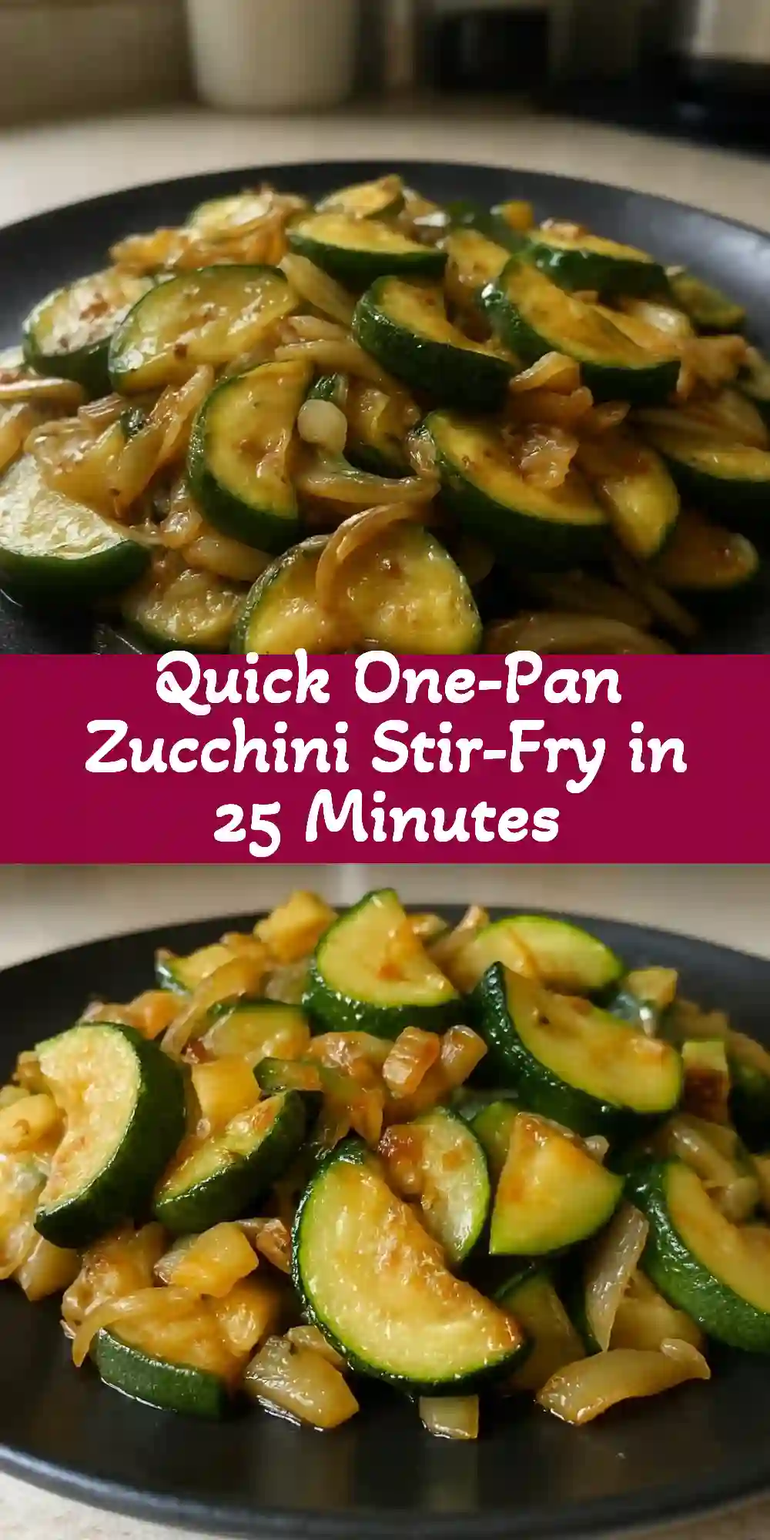
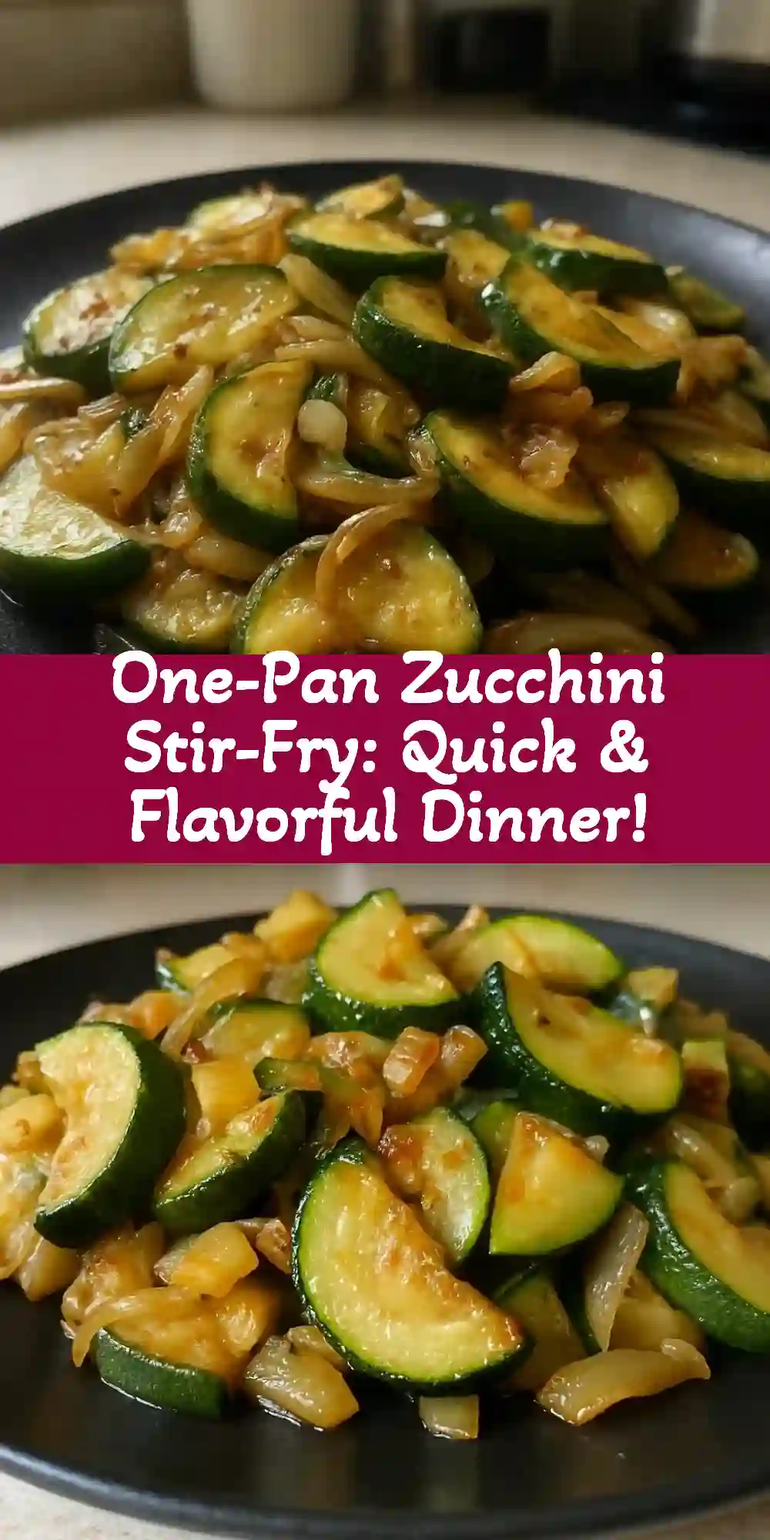
Update from web: 2026-03-01 22:41:49

Changed region(s): [[0.093, 0.403, 0.899, 0.558]]

diff --git a/recipes/zucchini-stir-fry/index.html b/recipes/zucchini-stir-fry/index.html
@@ -14,9 +14,9 @@
     <meta name="viewport" content="width=device-width, initial-scale=1.0">
 
     <!-- SEO Meta Tags -->
-    <title>Quick One-Pan Zucchini Stir-Fry in 25 Minutes - Molly Kitchen Daily</title>
-    <meta name="description" content="Need a meal that comes together in a flash? This one-pan zucchini stir-fry is packed with vibrant veggies and flavors. Ready in just 25 minutes, it’s a go-to for busy nights. Save this recipe for later!">
-    <meta name="keywords" content="Quick One-Pan Zucchini Stir-Fry in 25 Minutes, Recipes, recipe, cooking">
+    <title>One-Pan Zucchini Stir-Fry: Quick &amp; Flavorful Dinner! - Molly Kitchen Daily</title>
+    <meta name="description" content="Need a quick dinner? This One-Pan Zucchini Stir-Fry is ready in 25 minutes! Filled with fresh veggies, it’s a great way to use up what you have. Perfect for busy weeknights or meal prep. Save this recipe for those nights when you wanna whip something up fast!">
+    <meta name="keywords" content="One-Pan Zucchini Stir-Fry: Quick &amp; Flavorful Dinner!, Recipes, recipe, cooking">
     <meta name="author" content="Molly Dupont">
 
     <!-- Canonical URL -->
@@ -25,16 +25,16 @@
     <!-- Open Graph / Facebook -->
     <meta property="og:type" content="article">
     <meta property="og:url" content="https://www.mollykitchendaily.com/recipes/zucchini-stir-fry/">
-    <meta property="og:title" content="Quick One-Pan Zucchini Stir-Fry in 25 Minutes">
-    <meta property="og:description" content="Need a meal that comes together in a flash? This one-pan zucchini stir-fry is packed with vibrant veggies and flavors. Ready in just 25 minutes, it’s a go-to for busy nights. Save this recipe for later!">
+    <meta property="og:title" content="One-Pan Zucchini Stir-Fry: Quick &amp; Flavorful Dinner!">
+    <meta property="og:description" content="Need a quick dinner? This One-Pan Zucchini Stir-Fry is ready in 25 minutes! Filled with fresh veggies, it’s a great way to use up what you have. Perfect for busy weeknights or meal prep. Save this recipe for those nights when you wanna whip something up fast!">
     <meta property="og:image" content="https://www.mollykitchendaily.com/recipes/zucchini-stir-fry/images/zucchini-stir-fry_image_1.webp">
     <meta property="og:site_name" content="Molly Kitchen Daily">
 
     <!-- Twitter Card -->
     <meta name="twitter:card" content="summary_large_image">
     <meta name="twitter:url" content="https://www.mollykitchendaily.com/recipes/zucchini-stir-fry/">
-    <meta name="twitter:title" content="Quick One-Pan Zucchini Stir-Fry in 25 Minutes">
-    <meta name="twitter:description" content="Need a meal that comes together in a flash? This one-pan zucchini stir-fry is packed with vibrant veggies and flavors. Ready in just 25 minutes, it’s a go-to for busy nights. Save this recipe for later!">
+    <meta name="twitter:title" content="One-Pan Zucchini Stir-Fry: Quick &amp; Flavorful Dinner!">
+    <meta name="twitter:description" content="Need a quick dinner? This One-Pan Zucchini Stir-Fry is ready in 25 minutes! Filled with fresh veggies, it’s a great way to use up what you have. Perfect for busy weeknights or meal prep. Save this recipe for those nights when you wanna whip something up fast!">
     <meta name="twitter:image" content="https://www.mollykitchendaily.com/recipes/zucchini-stir-fry/images/zucchini-stir-fry_image_1.webp">
 
     <!-- Pinterest -->
@@ -45,8 +45,8 @@
     <script type="application/ld+json">{
     "@context": "https://schema.org",
     "@type": "Recipe",
-    "name": "Quick One-Pan Zucchini Stir-Fry in 25 Minutes",
-    "description": "Need a meal that comes together in a flash? This one-pan zucchini stir-fry is packed with vibrant veggies and flavors. Ready in just 25 minutes, it\u2019s a go-to for busy nights. Save this recipe for later!",
+    "name": "One-Pan Zucchini Stir-Fry: Quick & Flavorful Dinner!",
+    "description": "Need a quick dinner? This One-Pan Zucchini Stir-Fry is ready in 25 minutes! Filled with fresh veggies, it\u2019s a great way to use up what you have. Perfect for busy weeknights or meal prep. Save this recipe for those nights when you wanna whip something up fast!",
     "image": "https://www.mollykitchendaily.com/recipes/zucchini-stir-fry/images/zucchini-stir-fry_image_1.webp",
     "author": {
         "@type": "Person",
@@ -60,10 +60,11 @@
     "recipeCategory": "Main Course",
     "recipeCuisine": "American",
     "recipeIngredient": [
-        "2 medium zucchinis, sliced",
-        "1 bell pepper, sliced",
+        "3 medium zucchinis, sliced",
+        "1 bell pepper, chopped (any color)",
         "1 cup cherry tomatoes, halved",
-        "3 cloves garlic, minced",
+        "1 medium onion, sliced",
+        "2 cloves garlic, minced",
         "2 tablespoons olive oil",
         "1 teaspoon soy sauce",
         "Salt and pepper to taste",
@@ -73,32 +74,32 @@
         {
             "@type": "HowToStep",
             "position": 1,
-            "text": "Start by heating olive oil in a large skillet over medium heat. You want it hot enough to sizzle but not smoke."
+            "text": "First, heat the olive oil in a large skillet over medium heat. You want it hot, but not smoking."
         },
         {
             "@type": "HowToStep",
             "position": 2,
-            "text": "Add the minced garlic first. Saut\u00e9 for about 30 seconds until fragrant\u2014don\u2019t let it burn!"
+            "text": "Add the sliced onion, and saut\u00e9 for about 3-4 minutes until it starts to soften. The smell? Amazing."
         },
         {
             "@type": "HowToStep",
             "position": 3,
-            "text": "Toss in the sliced zucchinis and bell pepper. Cook for about 5-7 minutes until they soften, stirring occasionally."
+            "text": "Next, toss in the garlic and bell pepper. Cook for another 2-3 minutes, stirring occasionally."
         },
         {
             "@type": "HowToStep",
             "position": 4,
-            "text": "Add the cherry tomatoes and soy sauce. Cook for another 3-5 minutes until everything is well combined and heated through."
+            "text": "Now, add the zucchinis and cherry tomatoes. Stir everything together and cook for about 5-7 minutes until the zucchinis are tender but still a little crisp."
         },
         {
             "@type": "HowToStep",
             "position": 5,
-            "text": "Season with salt and pepper to taste. If you like a little heat, throw in some red pepper flakes!"
+            "text": "Drizzle the soy sauce over the veggies, and season with salt and pepper. Stir for another minute. You're almost there!"
         },
         {
             "@type": "HowToStep",
             "position": 6,
-            "text": "Finish with a sprinkle of fresh basil before serving. Looks good, right?"
+            "text": "Serve hot, topped with fresh basil. Honestly, that aroma is gonna get everyone to the table!"
         }
     ]
 }</script>
@@ -141,9 +142,9 @@
                     <article class="recipe-detail"><nav class="breadcrumb">
             <a href="/">Home</a> /
             <a href="/base.html?page=recipes-category">Recipes</a> /
-            <span>Quick One-Pan Zucchini Stir-Fry in 25 Minutes</span>
+            <span>One-Pan Zucchini Stir-Fry: Quick &amp; Flavorful Dinner!</span>
         </nav><header class="recipe-header">
-            <h1 class="recipe-title">Quick One-Pan Zucchini Stir-Fry in 25 Minutes</h1>
+            <h1 class="recipe-title">One-Pan Zucchini Stir-Fry: Quick &amp; Flavorful Dinner!</h1>
             <div class="recipe-meta">
                 <div class="author-info">
                     <img src="/authors/images/molly_dupont.jpg"
@@ -162,10 +163,10 @@
             </div>
         </header><div class="recipe-image-container">
             <img src="/recipes/zucchini-stir-fry/images/zucchini-stir-fry_image_1.webp"
-                 alt="Quick One-Pan Zucchini Stir-Fry in 25 Minutes"
+                 alt="One-Pan Zucchini Stir-Fry: Quick &amp; Flavorful Dinner!"
                  class="recipe-main-image">
             <button class="pinterest-pin-btn"
-                    onclick="pinRecipeImage('/recipes/zucchini-stir-fry/images/zucchini-stir-fry_image_1.webp', 'Quick One-Pan Zucchini Stir-Fry in 25 Minutes')"
+                    onclick="pinRecipeImage('/recipes/zucchini-stir-fry/images/zucchini-stir-fry_image_1.webp', 'One-Pan Zucchini Stir-Fry: Quick &amp; Flavorful Dinner!')"
                     title="Pin on Pinterest">
                 <svg width="16" height="16" viewBox="0 0 24 24" fill="currentColor">
                     <path d="M12 0C5.373 0 0 5.372 0 12c0 5.084 3.163 9.426 7.627 11.174-.105-.949-.2-2.405.042-3.441.219-.937 1.407-5.965 1.407-5.965s-.359-.719-.359-1.782c0-1.668.967-2.914 2.171-2.914 1.023 0 1.518.769 1.518 1.69 0 1.029-.655 2.568-.994 3.995-.283 1.194.599 2.169 1.777 2.169 2.133 0 3.772-2.249 3.772-5.495 0-2.873-2.064-4.882-5.012-4.882-3.414 0-5.418 2.561-5.418 5.207 0 1.031.397 2.138.893 2.738.098.119.112.224.083.345l-.333 1.36c-.053.22-.174.267-.402.161-1.499-.698-2.436-2.888-2.436-4.649 0-3.785 2.75-7.262 7.929-7.262 4.163 0 7.398 2.967 7.398 6.931 0 4.136-2.607 7.464-6.227 7.464-1.216 0-2.357-.631-2.75-1.378l-.748 2.853c-.271 1.043-1.002 2.35-1.492 3.146C9.57 23.812 10.763 24 12.001 24c6.624 0 11.999-5.373 11.999-12C24 5.372 18.626.001 12.001.001z"/>
@@ -173,61 +174,66 @@
                 PIN
             </button>
         </div><div class="recipe-description">
-            <p>Need a meal that comes together in a flash? This one-pan zucchini stir-fry is packed with vibrant veggies and flavors. Ready in just 25 minutes, it’s a go-to for busy nights. Save this recipe for later!</p>
-        </div><div class="recipe-story"><div class="story-section"><p>So I've made this one-pan zucchini stir-fry a bunch of times, and honestly, it never disappoints. The aroma of sautéed garlic mingling with fresh veggies is like a summer breeze in my kitchen. The zucchini becomes tender yet retains a bit of crunch, and the sweet burst of cherry tomatoes? Absolutely good. It’s a quick, nutritious meal that’s not just about filling your belly but also about enjoying those vibrant flavors!</p></div><div class="recipe-note">
+            <p>Need a quick dinner? This One-Pan Zucchini Stir-Fry is ready in 25 minutes! Filled with fresh veggies, it’s a great way to use up what you have. Perfect for busy weeknights or meal prep. Save this recipe for those nights when you wanna whip something up fast!</p>
+        </div><div class="recipe-story"><div class="story-section"><p>Alright, so this One-Pan Zucchini Stir-Fry is a lifesaver! It's like a burst of color and flavor in every bite. You’ve got the crispy zucchinis mingling with juicy tomatoes and sweet bell peppers, all sautéed to perfection. When you bite into those fresh veggies, it’s like a party in your mouth! Plus, it’s done in under 30 minutes, making it a go-to for those busy weeknights. Seriously, you’ll wanna keep this recipe handy for when life gets hectic!</p></div><div class="recipe-note">
                         <h3>Why You'll Love This Recipe</h3>
-                        <ul><li>30 minutes from start to finish. That’s it.</li><li>Loaded with fresh veggies—you'll feel good eating it!</li><li>My picky kids actually devoured it (shocking!)</li><li>Uses ingredients you probably have on hand.</li><li>Tastes great warmed up, so leftovers are awesome.</li><li>Great for meal prepping—just make a big batch!</li></ul>
-                    </div><h2 class="story-headline">My Story With This Recipe</h2><div class="story-section"><p>I first tried this at my friend Lisa's house last August during a casual get-together. The smell of garlic and fresh veggies filled the air, and I was instantly intrigued. Lisa said, "You've gotta try this—it's so easy!" One bite, and I was sold. Now I whip it up for my family every Friday night, and my husband, who usually turns his nose up at zucchini, said, "Wow, THIS is really good!"</p></div><h2 class="story-headline">What I Learned The Hard Way</h2><div class="story-section"><p>Honestly, the first time I made this, I overcooked the zucchini. It turned to mush, and I was bummed. Now I know to keep it crisp-tender, which means keeping an eye on it and stirring often. I also learned that garlic can go from golden to burnt in seconds, so keep it moving!</p></div><h2 class="story-headline">Essential Ingredients &amp; Smart Substitutions</h2><div class="story-section"><p><ul><li><strong>Main ingredient:</strong> Zucchini is key here. Look for firm, glossy ones. They should feel heavy for their size. I usually slice them thin for quicker cooking.</li><li><strong>Key seasonings:</strong> Garlic packs a punch. I love using fresh cloves, but pre-minced works in a pinch. It adds a fragrant depth to the dish.</li><li><strong>Supporting ingredients:</strong> Bell peppers add sweetness and color. I love red or yellow for that vibrant pop, and they soften nicely when cooked.</li><li><strong>Smart substitutions:</strong> If you don’t have zucchini, yellow squash works too! You could also throw in some snap peas or broccoli for added crunch.</li><li><strong>Equipment needed:</strong> A good non-stick skillet is essential. I love my KitchenAid skillet for even heat distribution.</li></ul></p></div><h2 class="story-headline">Step-by-Step Cooking Instructions</h2><div class="story-section"><p><dl><dt><strong>Preparation phase:</strong></dt><dd>Chop your veggies ahead of time—zucchini, bell pepper, and tomatoes. It makes cooking a breeze. I usually spend about 10 minutes on this.</dd><dt><strong>Cooking process:</strong></dt><dd>Heat your skillet over medium heat. Once it’s hot, add the oil and garlic. You’ll know it’s ready when the garlic starts to sizzle.</dd><dt><strong>Finishing touches:</strong></dt><dd>Once everything is cooked and mixed, garnish with fresh basil. It adds a lovely aroma and color.</dd></dl></p></div><h2 class="story-headline">Flavor Boosters &amp; Customization Ideas</h2><div class="story-section"><p><ul><li><strong>Herbs:</strong> Fresh basil is a must! Add it at the end to keep its flavor bright. You could also try parsley or cilantro for a different twist.</li><li><strong>Spices:</strong> A pinch of red pepper flakes can amp up the flavor. Just a little goes a long way!</li><li><strong>Upgrades:</strong> Toss in some cooked shrimp or chicken for protein. It changes the dish completely!</li><li><strong>Technique variations:</strong> Instead of stir-frying, try roasting the veggies for a deeper flavor. Just toss them on a sheet pan with oil and roast until tender.</li></ul></p></div><div class="content-image-container process-image">
+                        <ul><li>30 minutes total. Quick and easy!</li><li>Way healthier than takeout (no joke).</li><li>My kids actually eat their veggies. I was shocked!</li><li>You probably have everything already in your pantry.</li><li>Leftovers? They taste even better the next day.</li></ul>
+                    </div><h2 class="story-headline">My Story With This Recipe</h2><div class="story-section"><p>I first tried this recipe at my friend Sarah's place last summer. It was a casual get-together in her backyard, and the smell of fresh veggies sizzling on the grill drew me in. Sarah said, "You HAVE to try this stir-fry!" The flavors just popped - I felt like I was in a garden! Now I make it for my family every week, and my husband once said, "This is the only way I want my veggies from now on!" It’s become a staple in our house.</p></div><h2 class="story-headline">What I Learned The Hard Way</h2><div class="story-section"><p>First time I made this? Disaster! I overcooked the zucchinis, and they turned mushy - yuck. Now I know to keep them a little crunchy, which makes the dish so much better. Seriously, timing is everything with this stir-fry!</p></div><h2 class="story-headline">Essential Ingredients &amp; Smart Substitutions</h2><div class="story-section"><p><ul><li><strong>Main ingredient:</strong> Zucchini is super versatile and holds up well in stir-fries. Look for firm zucchinis without soft spots. Slice them thin for quicker cooking.</li><li><strong>Key seasonings:</strong> Garlic and soy sauce are essential for flavor. I always use organic soy sauce for a deeper taste.</li><li><strong>Supporting ingredients:</strong> Bell peppers add sweetness and color. I like to use red for that vibrant look.</li><li><strong>Smart substitutions:</strong> You can swap zucchinis for yellow squash or even broccoli if you want a different texture.</li><li><strong>Equipment needed:</strong> A large skillet or wok is best for even cooking, and a good spatula helps in stirring everything without damage.</li></ul></p></div><h2 class="story-headline">Step-by-Step Cooking Instructions</h2><div class="story-section"><p><dl><dt><strong>Preparation phase:</strong></dt><dd>Start by washing and slicing all your veggies. It takes about 5-7 minutes. I like to arrange everything on the counter so I can grab them easily.</dd><dt><strong>Cooking process:</strong></dt><dd>Heat the pan on medium heat and add oil. Toss in your onions and cook until they soften. Then, add garlic and bell peppers. Stir for another few minutes and keep an eye on them!</dd><dt><strong>Finishing touches:</strong></dt><dd>Once everything's cooked, drizzle soy sauce and give it a final stir. Serve with fresh basil on top. Looks gorgeous!</dd></dl></p></div><div class="content-image-container process-image">
                         <img src="/recipes/zucchini-stir-fry/images/zucchini-stir-fry_image_2.webp"
-                             alt="Quick One-Pan Zucchini Stir-Fry in 25 Minutes"
+                             alt="One-Pan Zucchini Stir-Fry: Quick &amp; Flavorful Dinner!"
                              class="content-image"
                              loading="lazy">
                         <button class="pinterest-pin-btn content-pin-btn"
-                                onclick="pinRecipeImage('/recipes/zucchini-stir-fry/images/zucchini-stir-fry_image_2.webp', 'Quick One-Pan Zucchini Stir-Fry in 25 Minutes')"
+                                onclick="pinRecipeImage('/recipes/zucchini-stir-fry/images/zucchini-stir-fry_image_2.webp', 'One-Pan Zucchini Stir-Fry: Quick &amp; Flavorful Dinner!')"
                                 title="Pin on Pinterest">
                             <svg width="16" height="16" viewBox="0 0 24 24" fill="currentColor">
                                 <path d="M12 0C5.373 0 0 5.372 0 12c0 5.084 3.163 9.426 7.627 11.174-.105-.949-.2-2.405.042-3.441.219-.937 1.407-5.965 1.407-5.965s-.359-.719-.359-1.782c0-1.668.967-2.914 2.171-2.914 1.023 0 1.518.769 1.518 1.69 0 1.029-.655 2.568-.994 3.995-.283 1.194.599 2.169 1.777 2.169 2.133 0 3.772-2.249 3.772-5.495 0-2.873-2.064-4.882-5.012-4.882-3.414 0-5.418 2.561-5.418 5.207 0 1.031.397 2.138.893 2.738.098.119.112.224.083.345l-.333 1.36c-.053.22-.174.267-.402.161-1.499-.698-2.436-2.888-2.436-4.649 0-3.785 2.75-7.262 7.929-7.262 4.163 0 7.398 2.967 7.398 6.931 0 4.136-2.607 7.464-6.227 7.464-1.216 0-2.357-.631-2.75-1.378l-.748 2.853c-.271 1.043-1.002 2.35-1.492 3.146C9.57 23.812 10.763 24 12.001 24c6.624 0 11.999-5.373 11.999-12C24 5.372 18.626.001 12.001.001z"/>
                             </svg>
                             PIN
                         </button>
-                    </div><h2 class="story-headline">Perfect Pairings &amp; Serving Suggestions</h2><div class="content-image-container final-image">
+                    </div><h2 class="story-headline">Flavor Boosters &amp; Customization Ideas</h2><div class="content-image-container final-image">
                         <img src="/recipes/zucchini-stir-fry/images/zucchini-stir-fry_image_3.webp"
-                             alt="Quick One-Pan Zucchini Stir-Fry in 25 Minutes"
+                             alt="One-Pan Zucchini Stir-Fry: Quick &amp; Flavorful Dinner!"
                              class="content-image"
                              loading="lazy">
                         <button class="pinterest-pin-btn content-pin-btn"
-                                onclick="pinRecipeImage('/recipes/zucchini-stir-fry/images/zucchini-stir-fry_image_3.webp', 'Quick One-Pan Zucchini Stir-Fry in 25 Minutes')"
+                                onclick="pinRecipeImage('/recipes/zucchini-stir-fry/images/zucchini-stir-fry_image_3.webp', 'One-Pan Zucchini Stir-Fry: Quick &amp; Flavorful Dinner!')"
                                 title="Pin on Pinterest">
                             <svg width="16" height="16" viewBox="0 0 24 24" fill="currentColor">
                                 <path d="M12 0C5.373 0 0 5.372 0 12c0 5.084 3.163 9.426 7.627 11.174-.105-.949-.2-2.405.042-3.441.219-.937 1.407-5.965 1.407-5.965s-.359-.719-.359-1.782c0-1.668.967-2.914 2.171-2.914 1.023 0 1.518.769 1.518 1.69 0 1.029-.655 2.568-.994 3.995-.283 1.194.599 2.169 1.777 2.169 2.133 0 3.772-2.249 3.772-5.495 0-2.873-2.064-4.882-5.012-4.882-3.414 0-5.418 2.561-5.418 5.207 0 1.031.397 2.138.893 2.738.098.119.112.224.083.345l-.333 1.36c-.053.22-.174.267-.402.161-1.499-.698-2.436-2.888-2.436-4.649 0-3.785 2.75-7.262 7.929-7.262 4.163 0 7.398 2.967 7.398 6.931 0 4.136-2.607 7.464-6.227 7.464-1.216 0-2.357-.631-2.75-1.378l-.748 2.853c-.271 1.043-1.002 2.35-1.492 3.146C9.57 23.812 10.763 24 12.001 24c6.624 0 11.999-5.373 11.999-12C24 5.372 18.626.001 12.001.001z"/>
                             </svg>
                             PIN
                         </button>
-                    </div><div class="story-section"><p><ul><li><strong>Side dishes:</strong> Serve it over rice or quinoa for a filling meal. You could also pair it with some crusty bread for a nice touch.</li><li><strong>Beverage pairings:</strong> A crisp white wine like Sauvignon Blanc works great with this dish. Or a refreshing iced tea if you prefer non-alcoholic!</li><li><strong>Temperature serving note:</strong> This dish is best served hot, just off the stove. You want that freshness!</li></ul></p></div><h2 class="story-headline">Creative Variations to Try</h2><div class="story-section"><p><ul><li><strong>Dietary adaptation 1:</strong> For gluten-free, just skip the soy sauce or use a gluten-free version.</li><li><strong>Dietary adaptation 2:</strong> For vegan, you’re already set! Just keep it plant-based and enjoy the freshness.</li><li><strong>Flavor variation:</strong> Add a splash of balsamic vinegar for a tangy twist. It brings a whole new dimension!</li><li><strong>Protein swap:</strong> Swap zucchini for eggplant for a richer taste. Just slice it thin and cook it the same way.</li></ul></p></div><div class="story-section"><p>Sharing this dish with family is always a joy. The vibrant colors and aromas make everyone excited to dig in. I remember my kids' faces lighting up as they took their first bites—their laughter filled the kitchen. It’s more than just a meal; it’s about gathering together, sharing stories, and enjoying each other's company. And honestly, seeing them enjoy their veggies? Priceless.</p></div><h2 class="story-headline">Conclusion</h2><div class="story-section"><p>Alright, you’ve got a quick and easy one-pan zucchini stir-fry recipe in your back pocket! It's a dish that brings comfort and warmth, making it ideal for busy weeknights. I hope you try it out and let me know how it goes! Don't forget to share your photos on social media or drop a rating. Happy cooking!</p></div></div><div class="recipe-boxs"><div class="recipe-section ingredients-section">
+                    </div><div class="story-section"><p><ul><li><strong>Herbs:</strong> Basil adds a lovely aroma. Toss it in just before serving for that fresh hit.</li><li><strong>Spices:</strong> A pinch of red pepper flakes can kick things up a notch!</li><li><strong>Ingredient upgrades:</strong> Add some tofu for extra protein or sprinkle on some sesame seeds for crunch.</li><li><strong>Technique variations:</strong> Try grilling the veggies for a smoky flavor. Or, roast them in the oven for a different texture.</li></ul></p></div><h2 class="story-headline">Perfect Pairings &amp; Serving Suggestions</h2><div class="story-section"><p><ul><li><strong>Side dishes:</strong> Serve with brown rice or quinoa for a complete meal.</li><li><strong>Beverage pairings:</strong> A chilled white wine or sparkling water pairs nicely.</li><li><strong>Bread options:</strong> Crusty bread is great for soaking up those juices!</li><li><strong>Occasion ideas:</strong> This dish works well for casual dinners or meal prep. Super flexible!</li><li><strong>Presentation tips:</strong> I like to serve it in a big bowl with fresh basil on top. It looks stunning.</li><li><strong>Temperature serving note:</strong> Best served warm, right off the stovetop!</li></ul></p></div><h2 class="story-headline">Creative Variations to Try</h2><div class="story-section"><p><ul><li><strong>Gluten-Free:</strong> Use tamari instead of soy sauce for a gluten-free option.</li><li><strong>Vegan/Dairy-Free:</strong> This recipe is naturally vegan, so no changes needed!</li><li><strong>Flavor variation:</strong> Add some curry powder for an Indian twist.</li><li><strong>Protein swap:</strong> Swap zucchinis for chicken if you’re feeling meaty.</li></ul></p></div><div class="story-section"><p>This One-Pan Zucchini Stir-Fry is a game-changer for weeknight dinners! It’s easy to make, tasty, and healthy. I’d love to hear how yours turns out! Snap a pic and share it with me on Instagram or Pinterest. Happy cooking!</p></div></div><div class="recipe-boxs"><div class="recipe-section ingredients-section">
             <h2>Ingredients</h2>
-            <ul class="ingredients-list"><li>2 medium zucchinis, sliced</li><li>1 bell pepper, sliced</li><li>1 cup cherry tomatoes, halved</li><li>3 cloves garlic, minced</li><li>2 tablespoons olive oil</li><li>1 teaspoon soy sauce</li><li>Salt and pepper to taste</li><li>Fresh basil for garnish</li></ul></div><div class="recipe-section instructions-section">
+            <ul class="ingredients-list"><li>3 medium zucchinis, sliced</li><li>1 bell pepper, chopped (any color)</li><li>1 cup cherry tomatoes, halved</li><li>1 medium onion, sliced</li><li>2 cloves garlic, minced</li><li>2 tablespoons olive oil</li><li>1 teaspoon soy sauce</li><li>Salt and pepper to taste</li><li>Fresh basil for garnish</li></ul></div><div class="recipe-section instructions-section">
             <h2>Instructions</h2>
             <ol class="instructions-list"><li>
                 <span class="step-number">Step 1</span>
-                <p>Start by heating olive oil in a large skillet over medium heat. You want it hot enough to sizzle but not smoke.</p>
+                <p>First, heat the olive oil in a large skillet over medium heat. You want it hot, but not smoking.</p>
             </li><li>
                 <span class="step-number">Step 2</span>
-                <p>Add the minced garlic first. Sauté for about 30 seconds until fragrant—don’t let it burn!</p>
+                <p>Add the sliced onion, and sauté for about 3-4 minutes until it starts to soften. The smell? Amazing.</p>
             </li><li>
                 <span class="step-number">Step 3</span>
-                <p>Toss in the sliced zucchinis and bell pepper. Cook for about 5-7 minutes until they soften, stirring occasionally.</p>
+                <p>Next, toss in the garlic and bell pepper. Cook for another 2-3 minutes, stirring occasionally.</p>
             </li><li>
                 <span class="step-number">Step 4</span>
-                <p>Add the cherry tomatoes and soy sauce. Cook for another 3-5 minutes until everything is well combined and heated through.</p>
+                <p>Now, add the zucchinis and cherry tomatoes. Stir everything together and cook for about 5-7 minutes until the zucchinis are tender but still a little crisp.</p>
             </li><li>
                 <span class="step-number">Step 5</span>
-                <p>Season with salt and pepper to taste. If you like a little heat, throw in some red pepper flakes!</p>
+                <p>Drizzle the soy sauce over the veggies, and season with salt and pepper. Stir for another minute. You're almost there!</p>
             </li><li>
                 <span class="step-number">Step 6</span>
-                <p>Finish with a sprinkle of fresh basil before serving. Looks good, right?</p>
+                <p>Serve hot, topped with fresh basil. Honestly, that aroma is gonna get everyone to the table!</p>
             </li></ol></div></div><div class="recipe-tips">
                 <h3>Tips & Notes</h3>
-                <p>Here’s the thing - don’t overcrowd the pan. If you do, the veggies will steam instead of stir-fry, and that’s a bummer. I always use my KitchenAid skillet for even cooking. Also, you can prep your veggies ahead of time to save on chaos during the week. And if you’ve got leftover veggies, toss them in! I once added some broccoli and it was a hit. Honestly, you can’t go wrong with this stir-fry. Just remember to keep an eye on the garlic; it burns quickly. Enjoy it over rice or with some crusty bread for a heartier meal. And leftovers? They taste even better the next day, trust me!</p>
+                <p>Look, I’ve made this a few times, and here’s what I’ve learned: 
+1. Use fresh veggies - they really make a difference. I prefer organic, especially from Whole Foods.
+2. If you're in a hurry, pre-chop your veggies ahead of time. It saves like 5 minutes, trust me.
+3. Feel free to switch up the veggies based on what’s in your fridge. I’ve used carrots and snap peas before, and it was fabulous.
+4. My KitchenAid chopper cuts down prep time like a boss - if you have one, use it!
+5. Don’t overcook the zucchinis! You want them to keep some of that crunch, you know?</p>
             </div></article>
                 </div>
             </div>

diff --git a/base.html b/base.html
@@ -45,7 +45,8 @@
     </script> -->
 
     <!-- Google AdSense -->
-    <script async src="https://pagead2.googlesyndication.com/pagead/js/adsbygoogle.js?client=ca-pub-3666818985097490" crossorigin="anonymous"></script>
+   <script async src="https://pagead2.googlesyndication.com/pagead/js/adsbygoogle.js?client=ca-pub-3666818985097490"
+     crossorigin="anonymous"></script>
     <!-- AdSense Auto-Injection -->
     <script src="ads.js" defer></script>
 
@@ -112,10 +113,10 @@
 <script src="./js/authors.js"></script>
 
 <script>
-    document.getElementById('facebook-config').href = globalThis.facebookURL; // Clear main content
-    document.getElementById('pinterest-config').href = globalThis.PinterestURL;
-    document.getElementById('mail-config').href = 'mailto:' + globalThis.email;
-    document.getElementsByClassName('copyright').innerHTML = globalThis.copyright;    
+    var fb = document.getElementById('facebook-config'); if (fb) fb.href = globalThis.facebookURL;
+    var pi = document.getElementById('pinterest-config'); if (pi) pi.href = globalThis.PinterestURL;
+    var ml = document.getElementById('mail-config'); if (ml) ml.href = 'mailto:' + globalThis.email;
+    var cr = document.getElementsByClassName('copyright')[0]; if (cr) cr.innerHTML = globalThis.copyright;    
 
    
 </script>

diff --git a/style.css b/style.css
@@ -2979,7 +2979,7 @@ nav.nav a img {
 }
 
 .ad-container .ad-label {
-    display: block;
+    display: none;
     font-size: 11px;
     color: #999;
     text-transform: uppercase;
